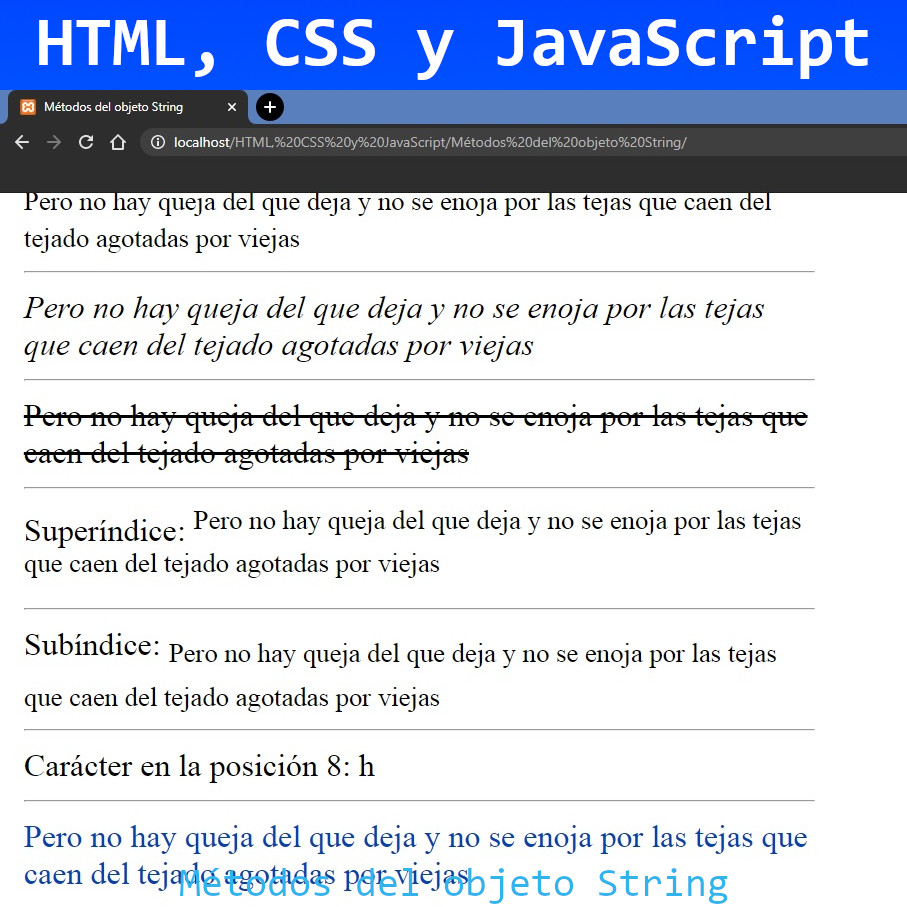
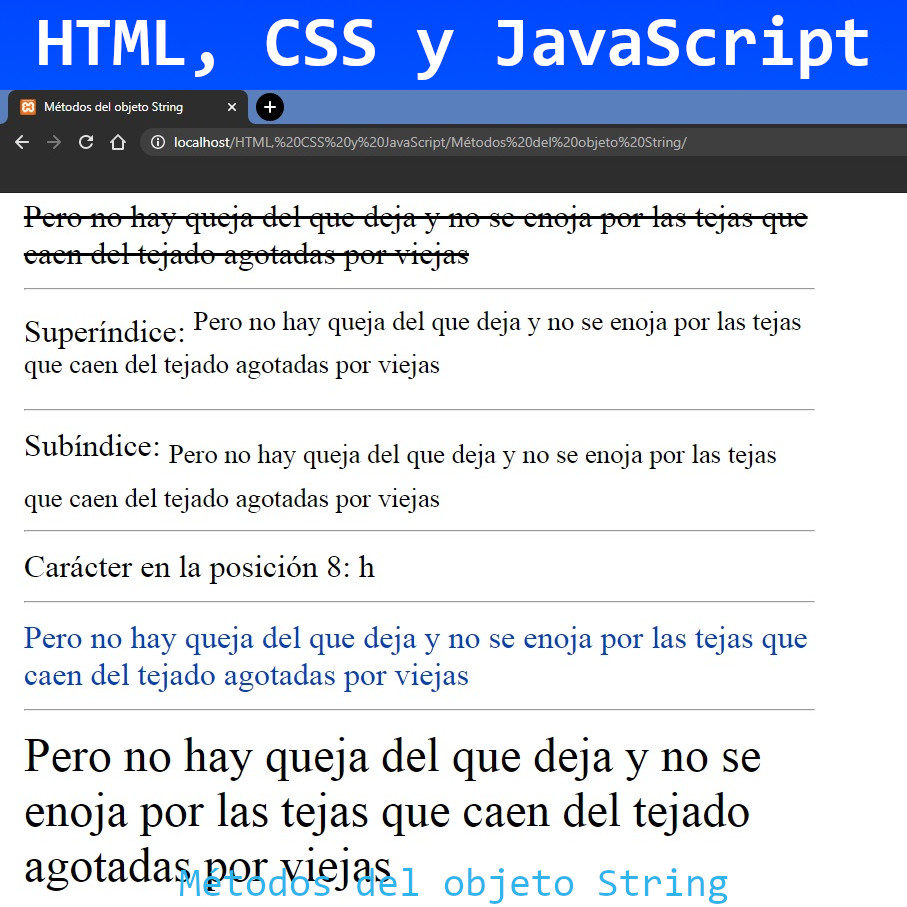
Métodos del objeto String
Métodos del objeto String en JavaScript

Changed region(s): [[0.0309, 0.2161, 0.8953, 0.6483], [0.0309, 0.6792, 0.8953, 0.9879]]

diff --git a/HTML, CSS y JavaScript/Métodos del objeto String/js/funciones.js b/HTML, CSS y JavaScript/Métodos del objeto String/js/funciones.js
@@ -98,3 +98,10 @@ var color = cadena.fontcolor("#0043b6");
 document.write(color);
 // SALTO DE LÍNEA
 document.write("<hr>");
+// MODIFICAR TAMAÑO DE FUENTE
+// declarar variable
+var tamaño = cadena.fontsize(7);
+// MOSTRAR EN PANTALLA
+document.write(tamaño);
+// SALTO DE LÍNEA
+document.write("<hr>");
